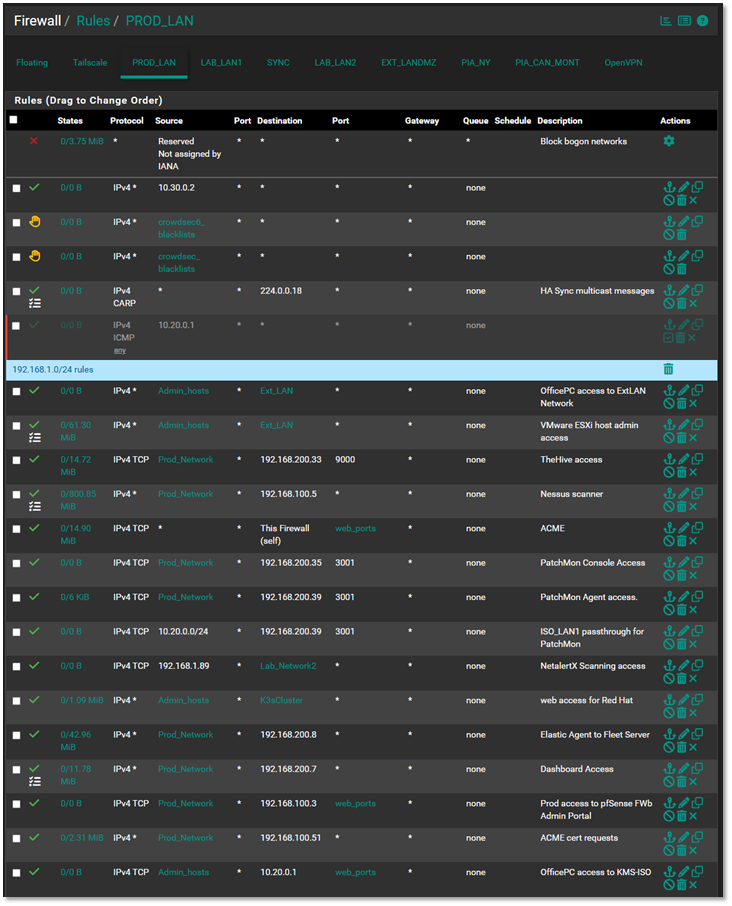
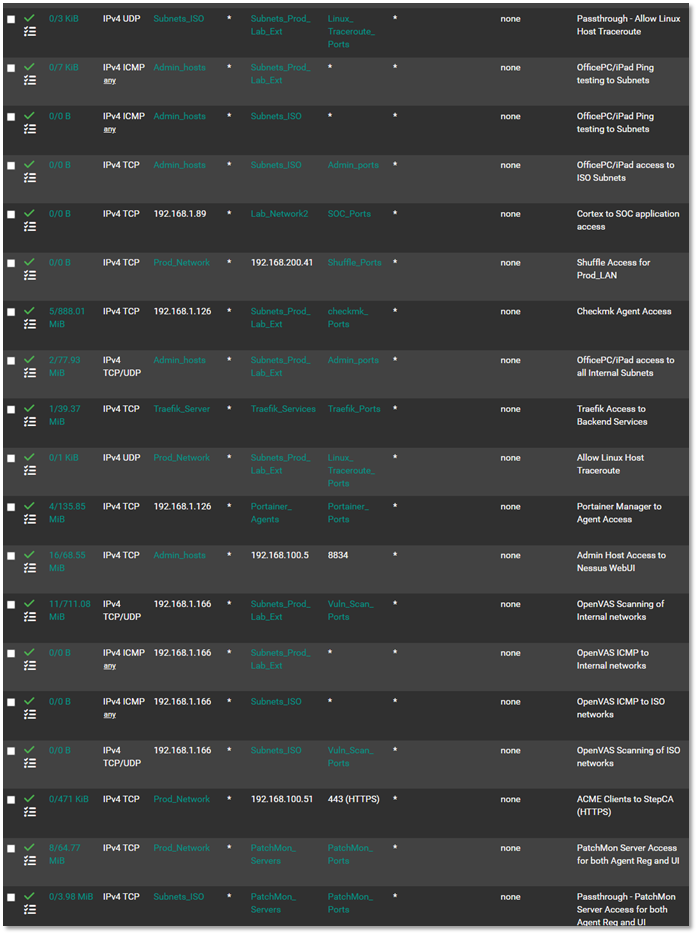
updates

diff --git a/docs/projects/homelab/03-network.md b/docs/projects/homelab/03-network.md
@@ -123,7 +123,7 @@ Configuration:
 
 **Suricata IDS/IPS**
 
-Deployment: Active on WAN and LAN interfaces (both pfSense nodes)  
+Deployment: Active on all internal LAN interfaces (both pfSense nodes)  
 Mode: Inline IPS with legacy blocking (balances performance vs. protection)
 
 Rulesets:
@@ -143,7 +143,7 @@ Use Case: Real-time detection of exploits, malware, and lateral movement attempt
 **Snort IDS/IPS**
 
 Deployment: Active on PIA VPN interfaces (monitors encrypted tunnel egress)  
-Mode: Inline IPS for outbound traffic inspection
+Mode: LEgacy (IDS) mode for outbound traffic inspection
 
 Rulesets:
 
@@ -395,7 +395,7 @@ Cross-zone traffic requires explicit firewall rules with service-level restricti
 #### pfSense Rule Configuration (Prod_LAN Interface)
 
 <figure>
-      <img src="/Career_Projects/assets/firewall/pfsense-prod-lan-rules.png" alt="pfSense Prod_LAN Rules">
+      <img src="/Career_Projects/assets/screenshots/pfs-prod-LAN1.png" alt="pfSense Prod_LAN Rules">
       <figcaption>pfSense Prod_LAN Interface Rules</figcaption>
     </figure>
 
@@ -412,7 +412,7 @@ Cross-zone traffic requires explicit firewall rules with service-level restricti
   </div>
   <div class="image-col">
     <figure>
-      <img src="/Career_Projects/assets/firewall/pfsense-vpn-killswitch.png" alt="VPN Kill Switch Rule">
+      <img src="/Career_Projects/assets/screenshots/pfs-float.png" alt="VPN Kill Switch Rule">
       <figcaption>pfSense VPN Kill Switch Floating Rule</figcaption>
     </figure>
   </div>
@@ -421,19 +421,19 @@ Cross-zone traffic requires explicit firewall rules with service-level restricti
 #### pfSense Log Examples
 
 <figure>
-    <img src="/Career_Projects/assets/firewall/pfsense-logs.png" alt="pfSense Firewall Logs">
+    <img src="/Career_Projects/assets/screenshots/pfsense-log.png" alt="pfSense Firewall Logs">
     <figcaption>pfSense Firewall Event Logs</figcaption>
 </figure>
 
 #### OPNsense Rule Configuration
 <figure>
-    <img src="/Career_Projects/assets/firewall/pfsense-logs.png" alt="pfSense Firewall Logs">
+    <img src="/Career_Projects/assets/screenshots/opn-rules.png" alt="pfSense Firewall Logs">
     <figcaption>OPNsense Rule Configuration</figcaption>
 </figure>
 
 #### FortiGate Rule Configuration
 <figure>
-    <img src="/Career_Projects/assets/firewall/pfsense-logs.png" alt="pfSense Firewall Logs">
+    <img src="/Career_Projects/assets/screenshots/fortigate-rules.png" alt="pfSense Firewall Logs">
     <figcaption>FortiGate Rule Configuration</figcaption>
 </figure>
 ---
@@ -704,6 +704,30 @@ alert tcp any any -> any 139 \
 alert tcp any any -> any 445 \
 (msg:"SMBv1 Protocol Negotiation"; content:"|ff|SMB"; depth:8; sid:9xxxxx; rev:1;)
 ```
+### Custom Rule Breakdown Example: 
+
+#### SSH Brute Force Detection
+Rule
+```
+alert tcp any any -> 192.168.100.0/24 22 \
+(msg:"LAB1: SSH Brute Force Attempt"; flags:S; detection_filter:track by_src, count 5, seconds 60; sid:910001; rev:2;)
+```
+#### Field Breakdown:
+insert table
+
+#### Operational Impact
+- Detects brute force attempts before authentication begins
+- Low noise due to SYN only matching
+- Helps identify compromised hosts or bots scanning SSH
+- Works across VLAN boundaries
+
+### Suricata event log example
+<figure>
+      <img src="/Career_Projects/assets/screenshots/suricata-events.png" alt="Snort Configuration">
+      <figcaption style="font-size:0.9rem; color:var(--md-secondary-text-color); margin-top:0.5rem;">
+        Custom Rule Events.
+      </figcaption>
+    </figure>
 ---
 
 ### 3.4 CrowdSec Behavioral Threat Intelligence
